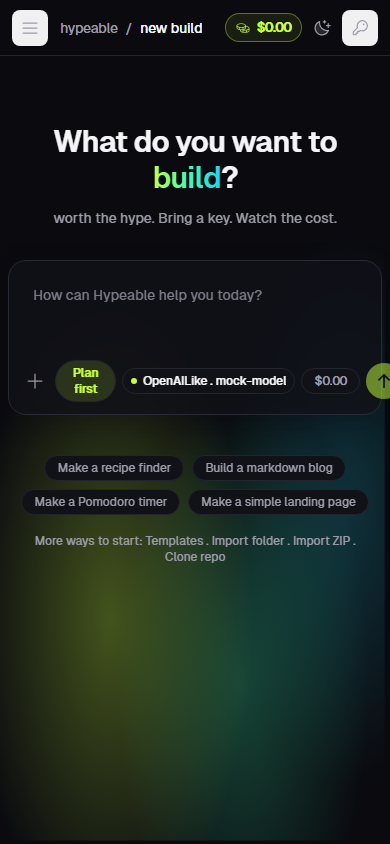
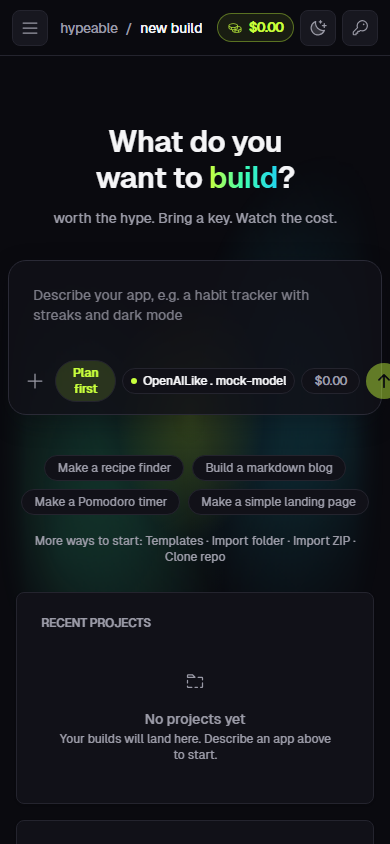
docs(assets): recapture home and spend screenshots
The previous shots showed a wrapping heading, olive aurora, and unthemed spend actions. Recapture after the polish so README and DESIGN match what the app actually looks like.

diff --git a/e2e/docs-screenshots.spec.ts b/e2e/docs-screenshots.spec.ts
@@ -69,4 +69,74 @@ test.describe('docs screenshots', () => {
     await page.setViewportSize({ width: 390, height: 844 });
     await loop.screenshot({ path: 'docs/assets/loop-panel-390.png' });
   });
+
+  test('spend page at desktop and mobile', async ({ page }) => {
+    test.setTimeout(120_000);
+    await seedOpenAILikeMock(page);
+    await page.addInitScript(() => {
+      const now = Date.now();
+      localStorage.setItem(
+        'hypeable:spend-ledger:v1',
+        JSON.stringify({
+          version: 1,
+          entries: [
+            {
+              id: 'shot-1',
+              timestamp: now - 3_600_000,
+              chatName: 'Habit tracker',
+              model: 'mock-model',
+              provider: 'OpenAILike',
+              promptTokens: 4200,
+              completionTokens: 1800,
+              dollars: 0.42,
+              verified: true,
+            },
+            {
+              id: 'shot-2',
+              timestamp: now - 7_200_000,
+              chatName: 'Markdown blog',
+              model: 'gpt-4o-mini',
+              provider: 'OpenAI',
+              promptTokens: 2100,
+              completionTokens: 900,
+              dollars: 0.18,
+              verified: false,
+            },
+          ],
+        }),
+      );
+
+      const costRaw = localStorage.getItem('hypeable:cost:v1');
+      const cost = costRaw ? JSON.parse(costRaw) : {};
+      cost.sessionTotal = 0.42;
+      cost.dailyTotal = 0.6;
+      cost.byModel = {
+        'mock-model': { dollars: 0.42, promptTokens: 4200, completionTokens: 1800 },
+        'gpt-4o-mini': { dollars: 0.18, promptTokens: 2100, completionTokens: 900, unverified: true },
+      };
+      localStorage.setItem('hypeable:cost:v1', JSON.stringify(cost));
+    });
+
+    await page.setViewportSize({ width: 1440, height: 900 });
+    await page.goto('/spend');
+    await expect(page.getByTestId('spend-page')).toBeVisible({ timeout: 20_000 });
+    await expect(page.getByText('Habit tracker')).toBeVisible();
+
+    await setTheme(page, 'dark');
+    await page.waitForTimeout(200);
+    await page.screenshot({ path: 'docs/assets/spend-dark-1440.png' });
+
+    await setTheme(page, 'light');
+    await page.waitForTimeout(200);
+    await page.screenshot({ path: 'docs/assets/spend-light-1440.png' });
+
+    await page.setViewportSize({ width: 390, height: 844 });
+    await setTheme(page, 'dark');
+    await page.waitForTimeout(200);
+    await page.screenshot({ path: 'docs/assets/spend-dark-390.png' });
+
+    await setTheme(page, 'light');
+    await page.waitForTimeout(200);
+    await page.screenshot({ path: 'docs/assets/spend-light-390.png' });
+  });
 });

diff --git a/app/styles/tokens.scss b/app/styles/tokens.scss
@@ -307,9 +307,9 @@ samp,
   inset: 0;
   mix-blend-mode: screen;
   background:
-    radial-gradient(38% 32% at 50% 44%, var(--hype-aurora-lime) 0%, transparent 70%),
-    radial-gradient(55% 48% at 22% 58%, var(--hype-aurora-mint) 0%, transparent 72%),
-    radial-gradient(50% 46% at 82% 50%, var(--hype-aurora-cyan) 0%, transparent 72%);
+    radial-gradient(28% 24% at 50% 46%, var(--hype-aurora-lime) 0%, transparent 68%),
+    radial-gradient(58% 50% at 16% 64%, var(--hype-aurora-mint) 0%, transparent 74%),
+    radial-gradient(52% 48% at 86% 48%, var(--hype-aurora-cyan) 0%, transparent 74%);
   -webkit-mask-image:
     linear-gradient(to right, transparent 0%, #000 8%, #000 92%, transparent 100%),
     linear-gradient(to bottom, transparent 0%, #000 8%, #000 76%, transparent 100%),
@@ -374,6 +374,69 @@ samp,
     cursor: not-allowed;
     opacity: 0.45;
   }
+}
+
+.hype-action-btn {
+  appearance: none;
+  display: inline-flex;
+  align-items: center;
+  justify-content: center;
+  gap: 0.375rem;
+  padding: 0.5rem 0.75rem;
+  background-color: var(--hype-surface-2);
+  border: 1px solid var(--hype-border);
+  color: var(--hype-text);
+  border-radius: var(--hype-radius-md);
+  font-size: var(--hype-text-xs);
+  font-weight: 500;
+  cursor: pointer;
+  transition:
+    background-color var(--hype-duration-fast) var(--hype-ease),
+    color var(--hype-duration-fast) var(--hype-ease);
+
+  &:hover:not(:disabled) {
+    background-color: color-mix(in srgb, var(--hype-text) 8%, var(--hype-surface-2));
+  }
+
+  &:focus-visible {
+    outline: 2px solid var(--hype-ring);
+    outline-offset: 2px;
+  }
+
+  &:disabled {
+    cursor: not-allowed;
+    opacity: 0.45;
+  }
+}
+
+.hype-badge-ok {
+  background-color: color-mix(in srgb, var(--hype-ok) 16%, transparent);
+  color: var(--hype-ok);
+}
+
+.hype-badge-warn {
+  background-color: color-mix(in srgb, var(--hype-warn) 16%, transparent);
+  color: var(--hype-warn);
+}
+
+.hype-badge-danger {
+  background-color: color-mix(in srgb, var(--hype-danger) 16%, transparent);
+  color: var(--hype-danger);
+}
+
+.hype-avatar-lime {
+  background-color: color-mix(in srgb, var(--hype-lime) 18%, transparent);
+  color: var(--hype-accent-text);
+}
+
+.hype-avatar-mint {
+  background-color: color-mix(in srgb, var(--hype-mint) 18%, transparent);
+  color: var(--hype-mint);
+}
+
+.hype-avatar-cyan {
+  background-color: color-mix(in srgb, var(--hype-cyan) 18%, transparent);
+  color: var(--hype-cyan);
 }
 
 /*

diff --git a/app/components/ui/ActionRow.tsx b/app/components/ui/ActionRow.tsx
@@ -34,11 +34,9 @@ export function ActionButton({ icon, children, className, tone = 'ghost', ...res
     <button
       type="button"
       className={classNames(
-        'inline-flex items-center justify-center gap-1.5 rounded-[var(--hype-radius-md)] px-3 py-2 text-xs font-medium transition-colors',
-        'focus-visible:outline-none focus-visible:ring-2 focus-visible:ring-hype-ring',
         tone === 'accent'
-          ? 'bg-hype-accent text-hype-on-accent hover:opacity-90'
-          : 'border border-hype-border bg-hype-surface-2 text-hype-text hover:bg-hype-border',
+          ? 'inline-flex items-center justify-center gap-1.5 rounded-[var(--hype-radius-md)] bg-hype-accent px-3 py-2 text-xs font-medium text-hype-on-accent hover:opacity-90 focus-visible:outline-none focus-visible:ring-2 focus-visible:ring-hype-ring'
+          : 'hype-action-btn',
         className,
       )}
       {...rest}

diff --git a/app/components/ui/Badge.tsx b/app/components/ui/Badge.tsx
@@ -12,9 +12,9 @@ const badgeVariants = cva(
         destructive: 'border-transparent bg-hype-danger/10 text-hype-danger',
         outline: 'border-hype-border text-hype-text',
         primary: 'border-transparent bg-hype-accent text-hype-on-accent',
-        success: 'border-transparent bg-hype-ok/12 text-hype-ok',
-        warning: 'border-transparent bg-hype-warn/12 text-hype-warn',
-        danger: 'border-transparent bg-hype-danger/12 text-hype-danger',
+        success: 'border-transparent hype-badge-ok',
+        warning: 'border-transparent hype-badge-warn',
+        danger: 'border-transparent hype-badge-danger',
         info: 'border-transparent bg-hype-cyan/12 text-hype-cyan',
         subtle: 'border-hype-border bg-hype-surface text-hype-muted',
       },

diff --git a/app/components/ui/ListRow.tsx b/app/components/ui/ListRow.tsx
@@ -65,9 +65,9 @@ export function RowAvatar({ label, tone = 'mint' }: { label: string; tone?: 'lim
   const initial = (label.trim()[0] || '?').toUpperCase();
 
   const tones = {
-    lime: 'bg-hype-accent/15 text-hype-accent-text',
-    mint: 'bg-hype-mint/15 text-hype-mint',
-    cyan: 'bg-hype-cyan/15 text-hype-cyan',
+    lime: 'hype-avatar-lime',
+    mint: 'hype-avatar-mint',
+    cyan: 'hype-avatar-cyan',
   };
 
   return (

diff --git a/docs/DESIGN.md b/docs/DESIGN.md
@@ -54,3 +54,7 @@ AA contrast on both themes, visible `:focus-visible` rings, keyboard navigation,
 - Home light desktop: [assets/home-light-1440.png](assets/home-light-1440.png)
 - Home dark mobile: [assets/home-dark-390.png](assets/home-dark-390.png)
 - Home light mobile: [assets/home-light-390.png](assets/home-light-390.png)
+- Spend dark desktop: [assets/spend-dark-1440.png](assets/spend-dark-1440.png)
+- Spend light desktop: [assets/spend-light-1440.png](assets/spend-light-1440.png)
+- Spend dark mobile: [assets/spend-dark-390.png](assets/spend-dark-390.png)
+- Spend light mobile: [assets/spend-light-390.png](assets/spend-light-390.png)

diff --git a/README.md b/README.md
@@ -4,6 +4,8 @@
 
 ![Hypeable home, light](docs/assets/home-light-1440.png)
 
+![Hypeable spend, dark](docs/assets/spend-dark-1440.png)
+
 **Worth the hype.** A free, open-source AI app builder. Describe an app, watch it get built, publish it to your own Vercel or GitHub. The empty home is a heading, one composer, four starters, and a live cost pill — model, key, and extra actions stay one click away.
 
 > Not affiliated with Lovable, Bolt, or StackBlitz. Built on [bolt.diy](https://github.com/stackblitz-labs/bolt.diy) (MIT).
